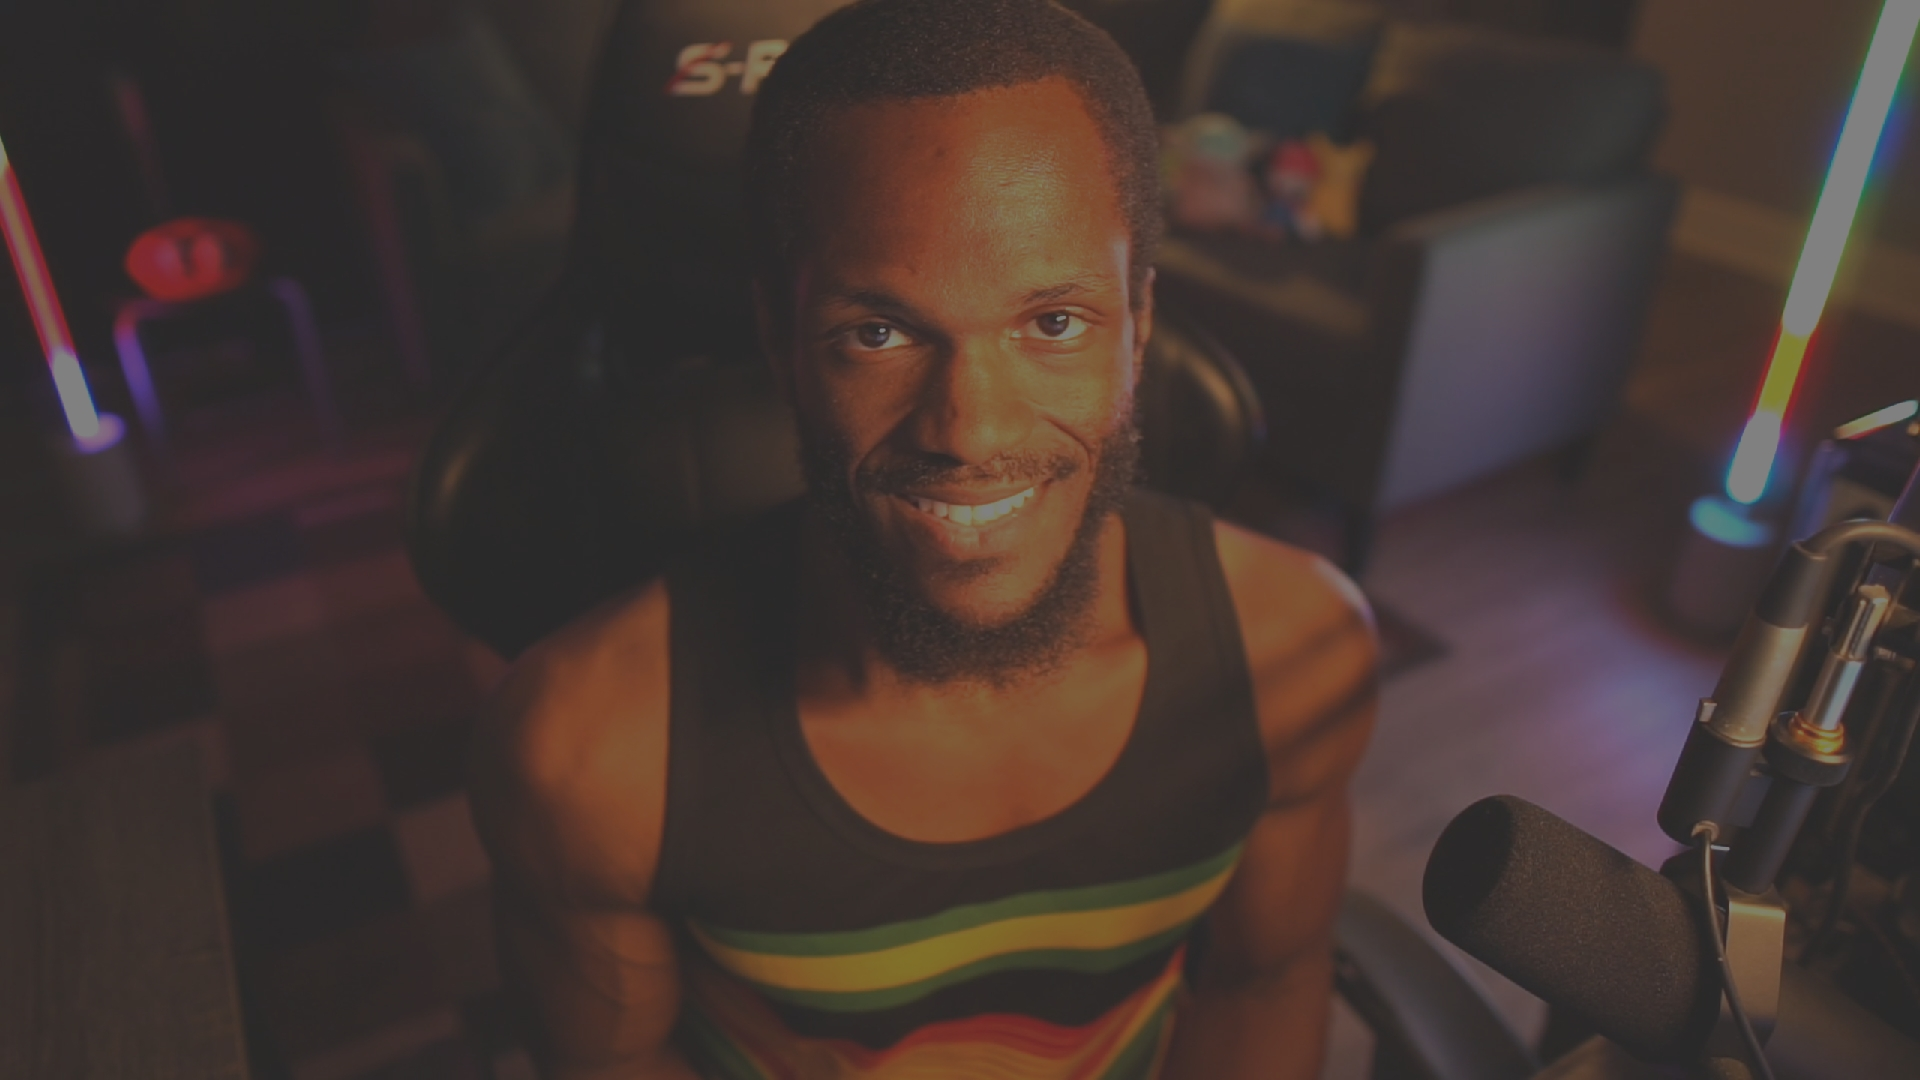
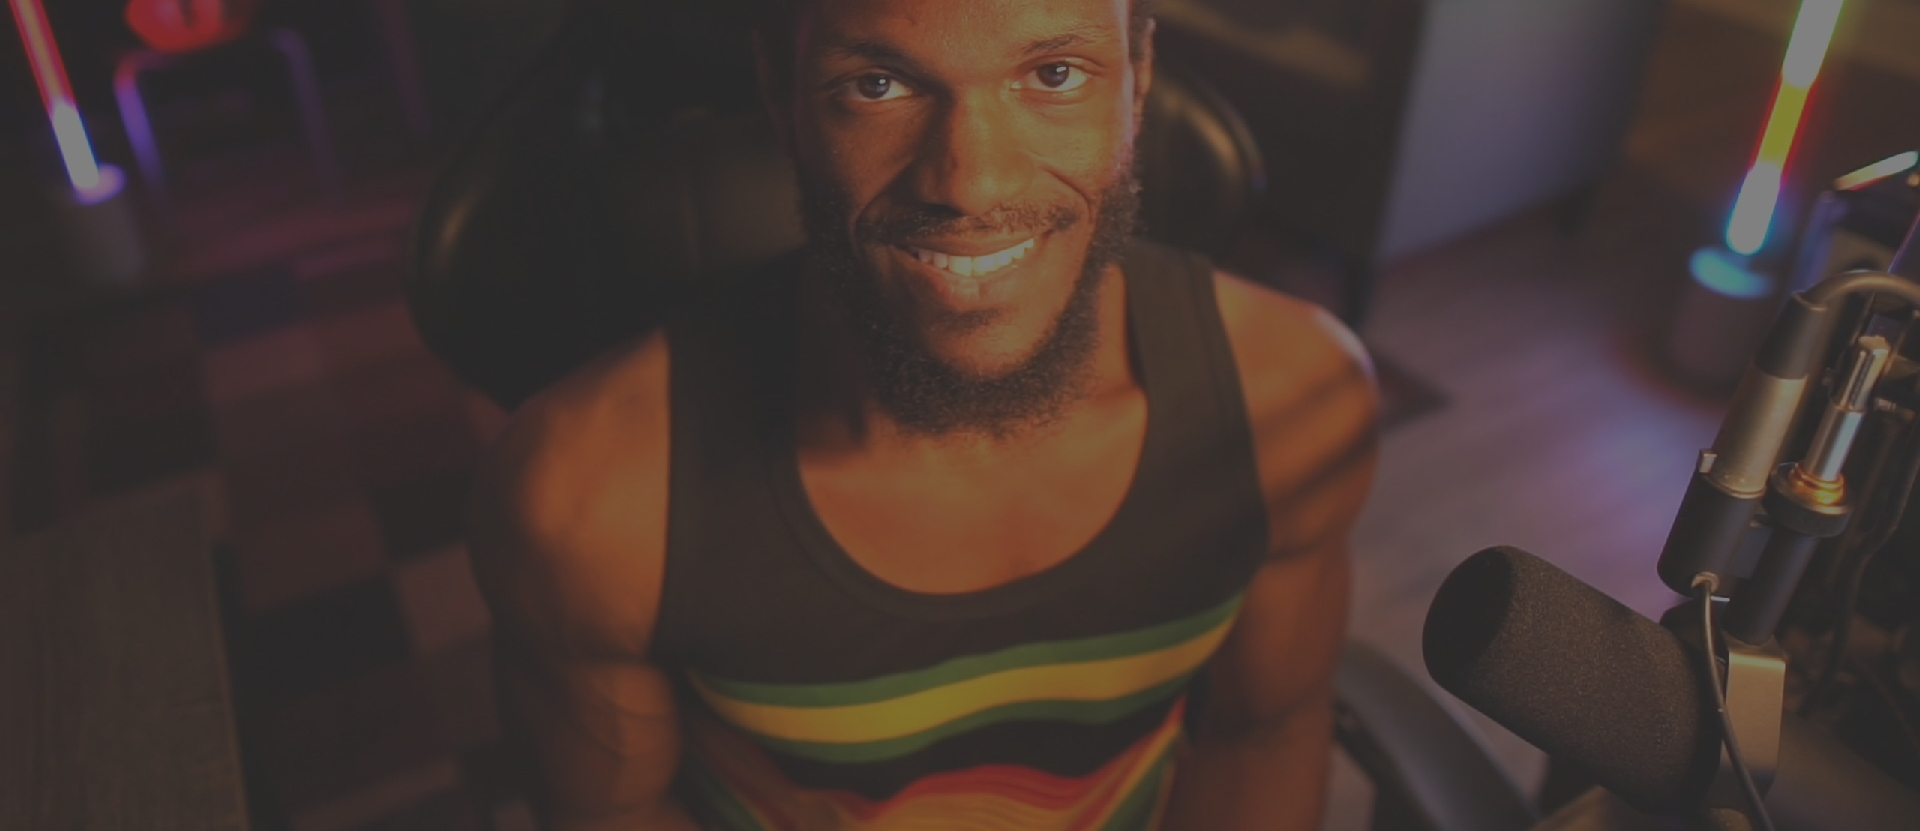
Updated the Level Editor view

diff --git a/index.html b/index.html
@@ -1,8 +1,19 @@
 <!DOCTYPE html>
 <html ng-app="portfolioApp">
     <head>
+        <meta charset="UTF-8" />
+	    <meta name="viewport" content="width=device-width, initial-scale=1" />
+        <meta name='robots' content='max-image-preview:large' />
         <link rel="stylesheet" href="css/bootstrap/css/bootstrap.min.css" />
         <link rel="stylesheet" href="css/site.css" />
+        <script src="https://cdn.jsdelivr.net/npm/chart.js@4.5.1/dist/chart.umd.min.js"></script>
+        <script src="https://code.jquery.com/jquery-3.7.1.min.js"></script>
+        <script src="https://ajax.googleapis.com/ajax/libs/angularjs/1.8.2/angular.min.js"></script>
+        <script src="css/bootstrap/js/bootstrap.bundle.min.js"></script>
+        <script type="text/javascript" src="js/pages/main.js"></script>
+        <script type="text/javascript" src="js/pages/header.js"></script>
+        <script type="text/javascript" src="js/pages/index.js"></script>
+        <script type="text/javascript" src="js/site.js"></script>
     </head>
     <body ng-controller="HeaderController" ng-init="init()">
         <header>
@@ -46,35 +57,49 @@
                 </div>
             </nav>
         </header>
-        <div ng-controller="IndexController" ng-init="init()">
-            <div class="container-fluid main-content">
-                <div style="margin-top: 30rem;"></div>
-                <div class="row">
-                    <div class="col text-center">
-                        <h2 class="text-white">JUST GAMING, CODING AND CREATING CONTENT</h2>
+        <main role="main" ng-controller="IndexController" ng-init="init()">
+            <div class="main-content">
+                <div class="container-fluid">
+                    <div style="margin-top: 15rem;"></div>
+                    <div class="row">
+                        <div class="col text-center">
+                            <h2 class="text-white">JUST GAMING, CODING AND CREATING CONTENT</h2>
+                        </div>
                     </div>
-                </div>
-                <div class="row">
-                    <div class="col text-center">
-                        <p class="text-white">Welcome to my website!</p>
+                    <div class="row">
+                        <div class="col text-center">
+                            <p class="text-white">Welcome to my website!</p>
+                        </div>
                     </div>
-                </div>
-                <div style="margin-top: 5rem;"></div>
-                <main role="main">
+                    <div style="margin-top: 3rem;"></div>
                     <div class="row">
                         <div class="col">
-                            <div id="test" ng-hide="IsViewLevelEditorOff" class="content-container">
-                                <div class="header">The Level Editor</div>
-                                <div class="content">The Content</div>
-                            </div>
-                            <div ng-hide="IsViewDiscordBotOff" class="content-container">
+                            <div id="ViewLevelEditor" ng-hide="IsViewLevelEditorOff" class="content-container"></div>
+                            <div id="ViewDiscordBot" ng-hide="IsViewDiscordBotOff" class="content-container">
                                 <div class="header">The Discord Bot</div>
                                 <div class="content">The Content</div>
                             </div>
                         </div>
                     </div>
-                </main>
-            </div>
+                        <!--<div class="row">
+                            <div class="col">
+                                <div class="content-container">
+                                    <div class="header">The Chart</div>
+                                    <div class="content">
+                                        <div class="row">
+                                            <div class="col-6">
+                                                <canvas id="chartOne"></canvas>
+                                            </div>
+                                            <div class="col-6">
+                                                <canvas id="chartTwo"></canvas>
+                                            </div>
+                                        </div>
+                                    </div>
+                                </div>
+                            </div>
+                        </div>-->
+                </div>
+            </main>
             <footer class="border-top footer text-muted">
                 <div class="container-fluid">
                     <div style="height: 150px;"></div>
@@ -91,12 +116,57 @@
                 </div>
             </footer>
         </div>
-        <script src="https://code.jquery.com/jquery-3.7.1.min.js"></script>
-        <script src="https://ajax.googleapis.com/ajax/libs/angularjs/1.8.2/angular.min.js"></script>
-        <script src="css/bootstrap/js/bootstrap.bundle.min.js"></script>
-        <script type="text/javascript" src="js/pages/main.js"></script>
-        <script type="text/javascript" src="js/pages/header.js"></script>
-        <script type="text/javascript" src="js/pages/index.js"></script>
-        <script type="text/javascript" src="js/site.js"></script>
     </body>
+    <!--<script>
+        const ctx = document.getElementById('chartOne');
+
+        new Chart(ctx, {
+            type: 'bar',
+            data: {
+                labels: ['Red', 'Blue', 'Yellow', 'Green', 'Purple', 'Orange'],
+                datasets: [{
+                    label: '# of Votes',
+                    data: [12, 19, 3, 5, 2, 3],
+                    borderWidth: 1
+                }]
+            },
+            options: {
+                scales: {
+                    y: {
+                        beginAtZero: true
+                    }
+                }
+            }
+        });
+
+        const ctxTwo = document.getElementById('chartTwo');
+
+        new Chart(ctxTwo, {
+            type: 'doughnut',
+            data: {
+                labels: [
+                    'Red',
+                    'Blue',
+                    'Yellow'
+                ],
+                datasets: [{
+                    label: 'My First Dataset',
+                    data: [300, 50, 100],
+                    backgroundColor: [
+                        'rgb(255, 99, 132)',
+                        'rgb(54, 162, 235)',
+                        'rgb(255, 205, 86)'
+                    ],
+                    hoverOffset: 4
+                }]
+            },
+            options: {
+                scales: {
+                    y: {
+                        beginAtZero: true
+                    }
+                }
+            }
+        });
+    </script>-->
 </html>

diff --git a/leveleditor.html b/leveleditor.html
@@ -1,4 +1,76 @@
-<div class="header">The Level Editor</div>
-<div class="content">
-    <img src="images/leveleditor/mainwindow.png" />
-</div>
+                                <div class="header">THE LEVEL EDITOR</div>
+                                <div class="content">
+                                    <div class="row">
+                                        <div class="col">
+                                            <h3>ABOUT</h3>
+                                        </div>
+                                    </div>
+                                    <div class="row">
+                                        <div class="col">
+                                            <p>This is one of the BIGGEST side projects I’ve worked on. This is a application that I wrote in attempt to learn more about file handling and modification. The general idea is to modify an existing video game. I've also included features such as a grid system, level swapping, statistics and tile data.</p>
+                                        </div>
+                                    </div>
+                                    <div class="row">
+                                        <div class="col">
+                                            <h3>DEVELOPER TOOLS</h3>
+                                        </div>
+                                    </div>
+                                    <div class="row">
+                                        <div class="col">
+                                            <ul>
+                                                <li>Visual Studio</li>
+                                                <li>C# .NET Windows Forms</li>
+                                                <li>C# .NET WPF</li>
+                                            </ul>  
+                                        </div>
+                                    </div>
+                                    <div class="row">
+                                        <div class="col-md-6 mb-2 text-center">
+                                            <img src="images/leveleditor/mainwindow.png" />
+                                        </div>
+                                        <div class="col-md-6 mb-2 text-center">
+                                            <img src="images/leveleditor/grid.png" />
+                                        </div>
+                                    </div>
+                                    <div class="row">
+                                        <div class="col-sm-6 mb-2">
+                                            <div class="row">
+                                                <div class="col-12">
+                                                    <h3>HEX EDITING</h3>
+                                                </div>
+                                                <div class="col-12">
+                                                    <p>On a very technical level, this is what modifying the file would look like. I can understand what this is saying, but someone else may not. We are looking at one of the levels, in this case. Instead of making modifications to this level through hex, I decided to write an application that would visualize the data instead.</p>
+                                                </div>
+                                                <div class="col-12">
+                                                    <img src="images/leveleditor/hex.png" />
+                                                </div>
+                                            </div>
+                                        </div>
+                                        <div class="col-sm-6 mb-2">
+                                            <div class="row">
+                                                <div class="col-12">
+                                                    <h3>LEVEL SWAPPER</h3>
+                                                </div>
+                                                <div class="col-12">
+                                                    <p>Sometimes, it's easy to develop levels that may feel easier or difficult than other levels. Because of this, I added a neat level swapper within the application!</p>
+                                                </div>
+                                                <div class="col-12">
+                                                    <img src="images/leveleditor/levelswapper.png" />
+                                                </div>
+                                            </div>
+                                        </div>
+                                    </div>
+                                    <div class="row">
+                                        <div class="col-12">
+                                            <h3>PALETTE EDITING</h3>
+                                        </div>
+                                        <div class="col-12">
+                                            <p>The palette editor is designed in its own window. Like level data, I had to find the address for the palette within the file itself, so that I could manipulate the values through my windows form application and save it back into the file. This part of the project aids in making modification to the colors within the game.</p>
+                                        </div>
+                                        <div class="col-12">
+                                            <div class="text-center">
+                                                <img src="images/leveleditor/palette.png" />
+                                            </div>
+                                        </div>
+                                    </div>
+                                </div>

diff --git a/css/site.css b/css/site.css
@@ -26,7 +26,7 @@ body {
 
 .navbar {
     background-color: #FFF;
-    /*box-shadow: 0px 0px 20px #AAA;*/
+    box-shadow: 0px 0px 20px #000;
     /*margin-bottom: 15px;*/
     border-bottom: 0px !important;
 }
@@ -112,12 +112,14 @@ footer {
 */
 
 .main-content {
-    padding-top: 15px;
-    padding-bottom:550px;
     background-image:url('../images/site/bg.jpg');
-    background-position: top;
+    padding-top: 5rem; 
+    background-position: 50% 0;
     background-repeat: no-repeat;
-    background-size: cover;
+}
+
+.main-content div:first-child {
+    max-width: 110rem;
 }
 
 .content-container {
@@ -126,8 +128,6 @@ footer {
     margin-bottom: 15px;
     /*box-shadow: 0px 5px 5px #AAA;*/
 }
-
-
 
 .content-container .header {
     font-weight: bold;
@@ -191,4 +191,15 @@ a {
 
 .box-shadow {
     box-shadow: 0px 5px 5px #AAA;
+}
+
+/**
+    Images
+*/
+
+img {
+    max-width: 100%; 
+    border: 1px solid #666;
+    box-shadow: 0px 5px 5px #AAA;
+    border-radius: 5px;
 }

diff --git a/js/pages/header.js b/js/pages/header.js
@@ -15,15 +15,14 @@
            Portfolio.HeaderScope.IsViewLevelEditorOff = false;
            Portfolio.HeaderScope.IsViewDiscordBotOff = true;
 
-            $('#test').load('leveleditor.html', function() {
+           $('#ViewLevelEditor').load('leveleditor.html', function() {
                 
-            });
+           });
         };
 
         Portfolio.HeaderScope.ShowViewDiscordBot = function () {
            Portfolio.HeaderScope.IsViewLevelEditorOff = true;
            Portfolio.HeaderScope.IsViewDiscordBotOff = false;
-
         };
     });
 })();
